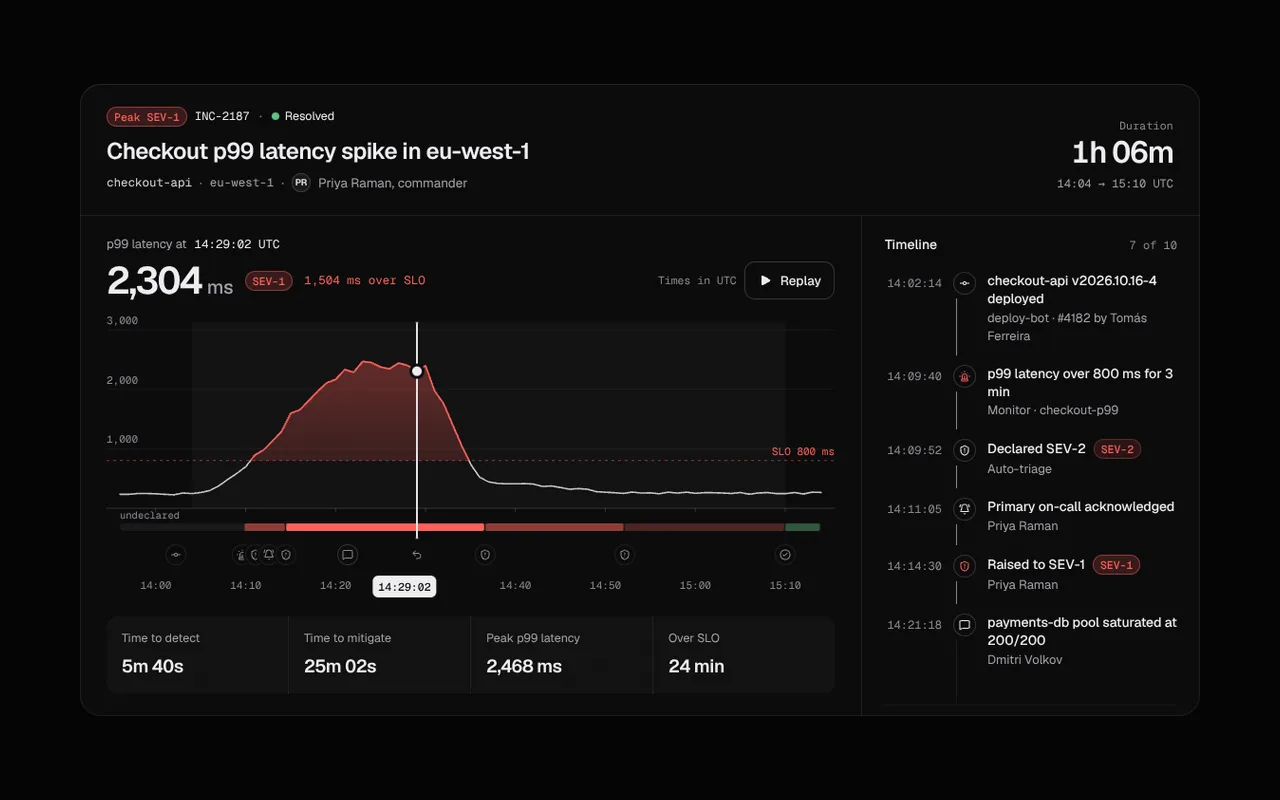
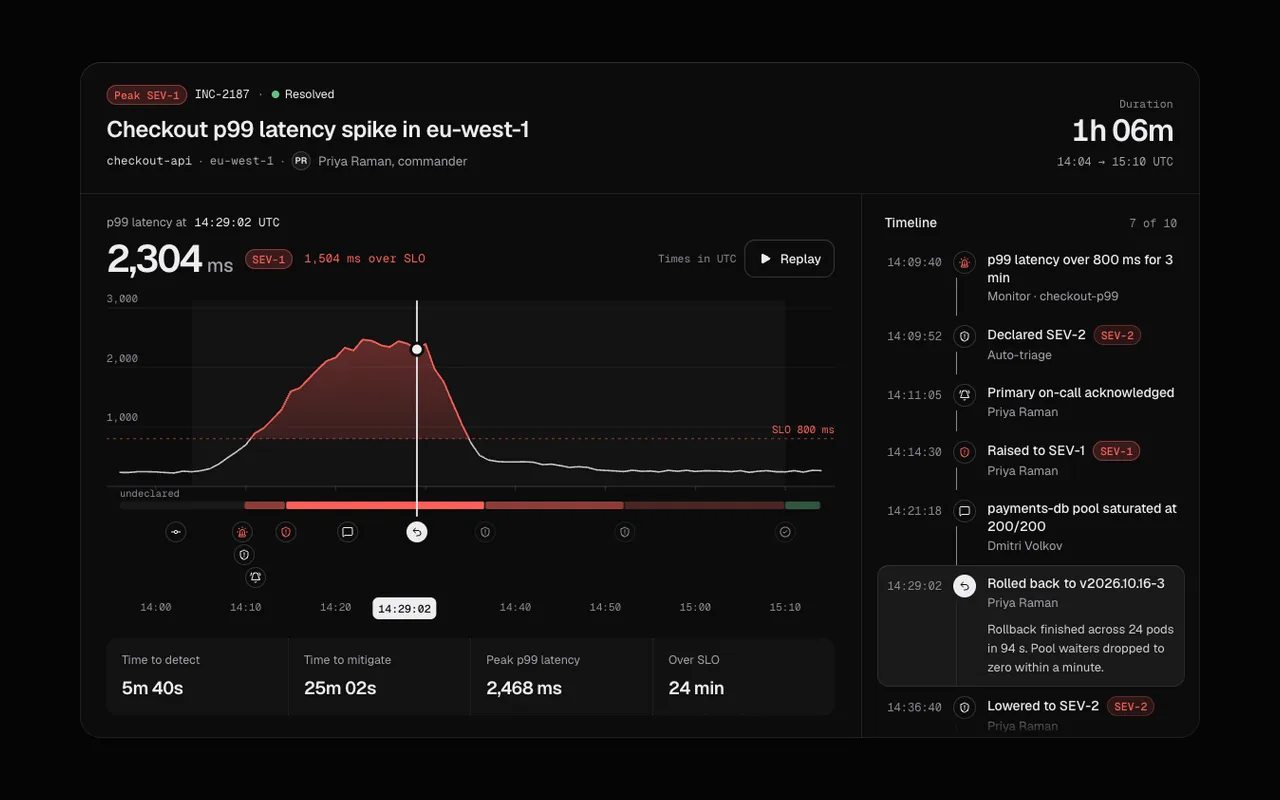
Cover incident seeking and dense marker accessibility

diff --git a/docs/review/HANDOFF_TASKS.md b/docs/review/HANDOFF_TASKS.md
@@ -6,6 +6,8 @@ and how to know it's done. Pick any of them up independently. Background, briefs
 
 ## Follow-up progress (17–21 October 2026)
 
+- Task 5 (21 October): Incident Timeline now handles invalid or missing impact times without crashing or inventing epoch labels, disables empty Replay and sends detached event snapshots. Future rows and hovered timestamps retain readable contrast; reduced readout swaps settle without blur or translation. Dense markers keep exact time coordinates in separate rows with 24px mouse and 44px touch targets. The final sixteen state/accessibility checks and complete registered five-fixture workflow pass, including actual dense clicks and taps. The native official audit passes all original checks and limits; all ten captures are inspected. The software audit retains its separate desktop paint timeout. Strict registry, root/all-eleven-block types and all 1,099 unit tests pass with fixed implementation inputs. Earlier unit timeouts remain preserved; the original content test recovers unchanged on Node24 with one worker. The inspected current poster is refreshed; its film remains queued. The Unavailable key is covered in all 29 translated editions, with nine dictionary gaps closed and all prior values retained. The wider localisation audit retains 183,990 missing units, zero invalid protected terms and English fallback. There are now 40 older probes and 123 films outstanding. Evidence uses `test-results/handoff-older-probes/incident-state-targets-final/`, `incident-registered-final/`, `incident-official-audit-native-control/`, `incident-poster-targets/`, `incident-translations/` and `developer-devtools-unit-recovery-node24-*`.
+
 - Task 5 (21 October): Icon Workbench now has a dedicated registered regression for keyword filtering, keyboard selection, exact selected IDs, JSX format selection and copied source. Failed copy retains the query and selected glyph; the exact retry succeeds while pending export stays locked. Clear search restores both fixtures, and an empty set remains explicit. Both native mounts and the complete registered case pass without product changes. Strict registry, root/all-eleven-block types and all 1,099 unit tests pass. There are now 41 older probes and 123 films outstanding. Evidence uses `test-results/handoff-older-probes/developer-ai-first-native/`, `ai-context-native-semantics/`, `ai-context-dom-trace-v2/`, `ai-auth-registered-after-dom-trace/`, `icon-workbench-registered/` and `developer-ai-coverage-core-*`.
 
 - Task 5 (21 October): Recovery Codes now has a dedicated registered regression using synthetic account data and codes. Keyboard export failure/retry produces identical files and excludes used codes; confirmation preserves the stored acknowledgement after failure, blocks duplicate pending confirmation and reaches the success view after retry. Empty-code copy, download and print actions remain disabled. Both native mounts and the complete registered case pass without product changes. Strict registry, root/all-eleven-block types and all 1,099 unit tests pass. There are now 42 older probes and 123 films outstanding. Evidence uses `test-results/handoff-older-probes/developer-ai-first-native/`, `ai-context-native-semantics/`, `ai-context-dom-trace-v2/`, `ai-auth-registered-after-dom-trace/`, `icon-workbench-registered/` and `developer-ai-coverage-core-*`.
@@ -697,7 +699,7 @@ runs. Earlier checkpoints and their original failures remain archived below.
 
 ## 5. Write browser probes for components that have none
 
-41 finished components still have no dedicated browser regression probe. For each, read its source and
+40 finished components still have no dedicated browser regression probe. For each, read its source and
 `meta.json`, then add a case to the appropriate `tests/browser/*.mjs` suite (or a new probe registered in
 `scripts/test-components.mjs`) covering: the signature interaction, keyboard paths, failed-then-successful callbacks
 with drafts kept (where it has async callbacks), and empty or invalid data. Use `tests/browser/pro-50/hr-org-explorer.mjs`
@@ -706,7 +708,7 @@ see `tests/browser/mobile-accessibility-probe.mjs` for a native example.
 
 
 
-`devtools-incident-timeline`, `devtools-release-compare`, `devtools-request-replay`, `devtools-schema-migration`
+`devtools-release-compare`, `devtools-request-replay`, `devtools-schema-migration`
 `date-range-calendar`, `date-timezone-overlap`, `forms-branching-survey`, `forms-draft-rescue`
 `input-cron-builder`, `input-detent-dial`, `input-dual-range`, `input-expression-editor`, `input-unit-converter`
 `selects-tree-picker`, `layout-split-resizer`

diff --git a/docs/review/STATUS.md b/docs/review/STATUS.md
@@ -1,6 +1,6 @@
 # Review status
 
-Current inventory (21 October): all 202 standalone reviews and all eleven block reviews are complete; 41 older interaction probes and 123 films remain.
+Current inventory (21 October): all 202 standalone reviews and all eleven block reviews are complete; 40 older interaction probes and 123 films remain.
 
 Task 1 (20 October): Settings Panel has a reviewed 5.7s, 131 KB first refresh film and paired settled Next poster for its stronger fields. The exact replay enables Product news, selects Compact density and saves both values once; browser playback and an independent decoder reach the same Changes saved ending. All states fit measured 832×800 framing with the complete 680px panel visible. Maximum source gap is 43ms, changed-source delivery is 37.52ms and moving-frame p95 is 18.53ms, with no stalls, unchanged guards and all 88 capture inputs fixed. The earlier original assets remain archived. All eleven blocks are complete; 59 older probes and 123 films remain. The complete 68-suite release checkpoint is next. Evidence uses `test-results/handoff-blocks/settings-panel-*`.
 
@@ -311,7 +311,7 @@ See [the handoff checkpoint](HANDOFF_TASKS.md#8-final-release-checks) for revisi
 | `ai-structured-output` | new | current | Dedicated native and registered interaction regression passes; keyboard paths, host notifications and empty states are covered. Product source unchanged. See the 21 October Task 5 evidence in HANDOFF_TASKS.md. |
 | `auth-recovery-codes` | new | current | Dedicated native and registered interaction regression passes; keyboard paths, host notifications and empty states are covered. Product source unchanged. See the 21 October Task 5 evidence in HANDOFF_TASKS.md. |
 | `devtools-icon-workbench` | new | current | Dedicated native and registered interaction regression passes; keyboard paths, host notifications and empty states are covered. Product source unchanged. See the 21 October Task 5 evidence in HANDOFF_TASKS.md. |
-| `devtools-incident-timeline` | new | current |  |
+| `devtools-incident-timeline` | new | current | Invalid-time, empty Replay and detached seek guards; readable states, exact-time stacked mouse/touch targets, registered regression and current poster. Film queued. |
 | `devtools-release-compare` | new | current |  |
 | `devtools-request-replay` | new | current |  |
 | `devtools-schema-migration` | new | current |  |
